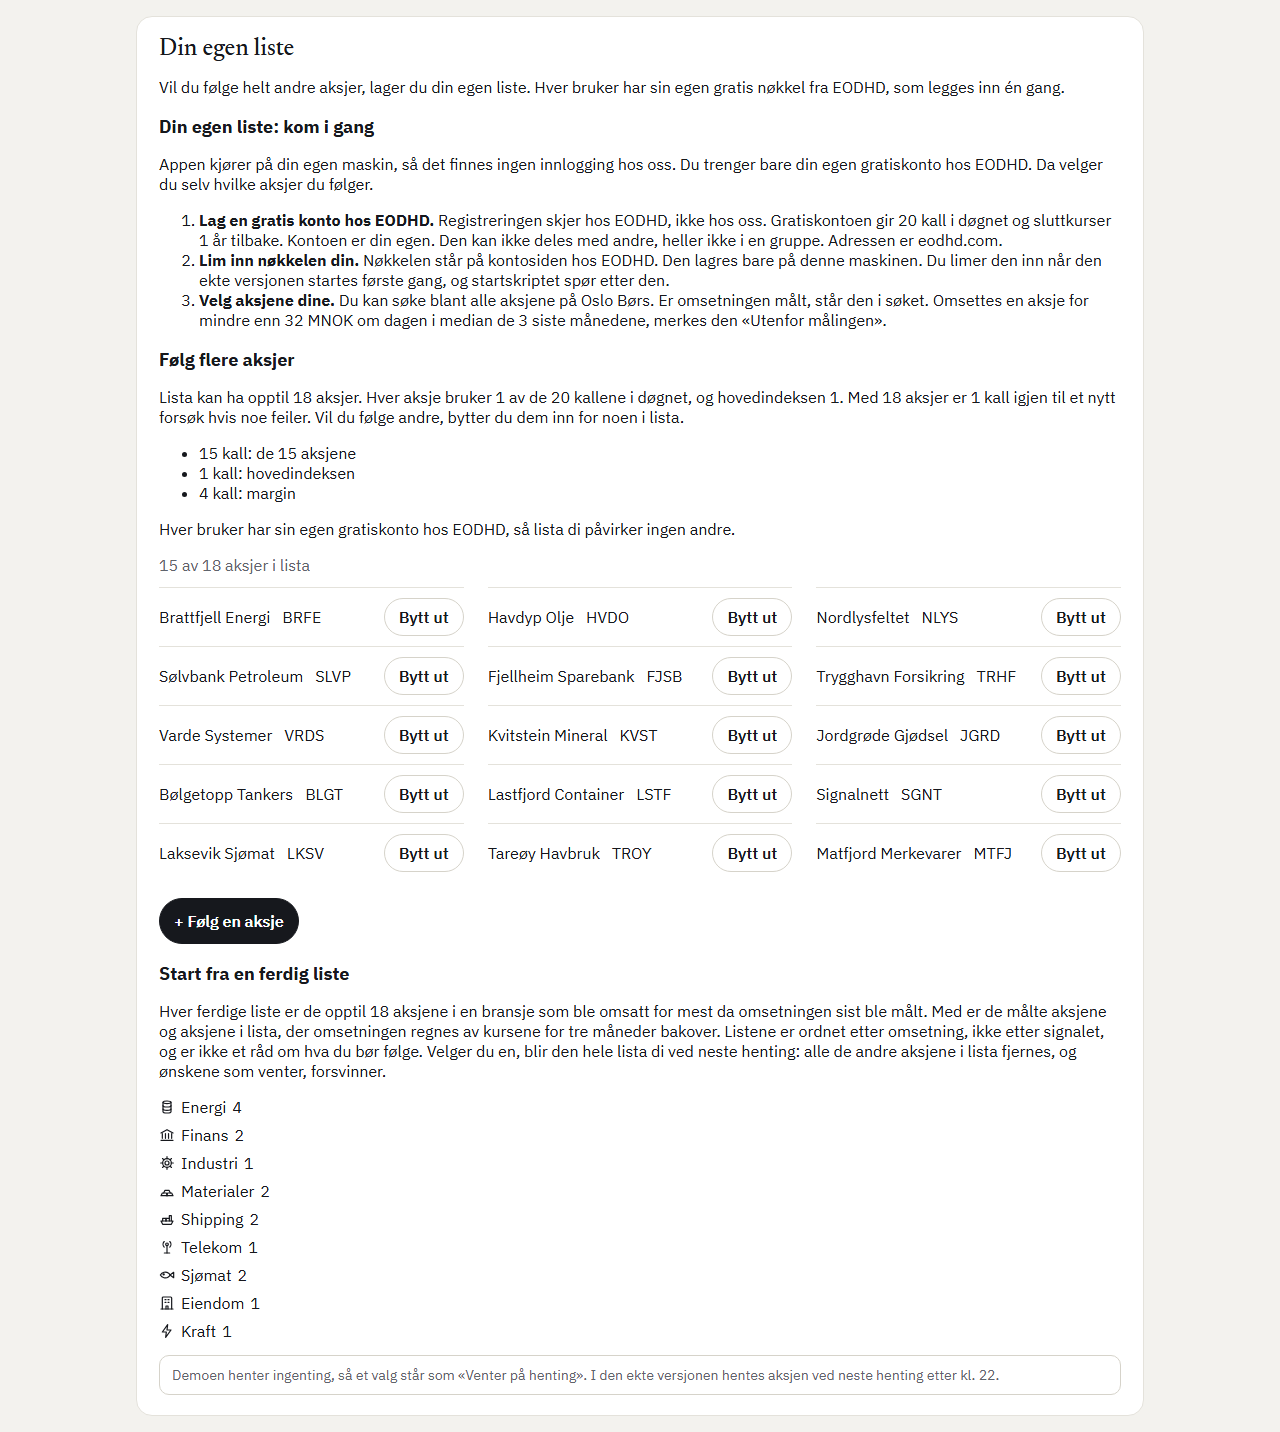
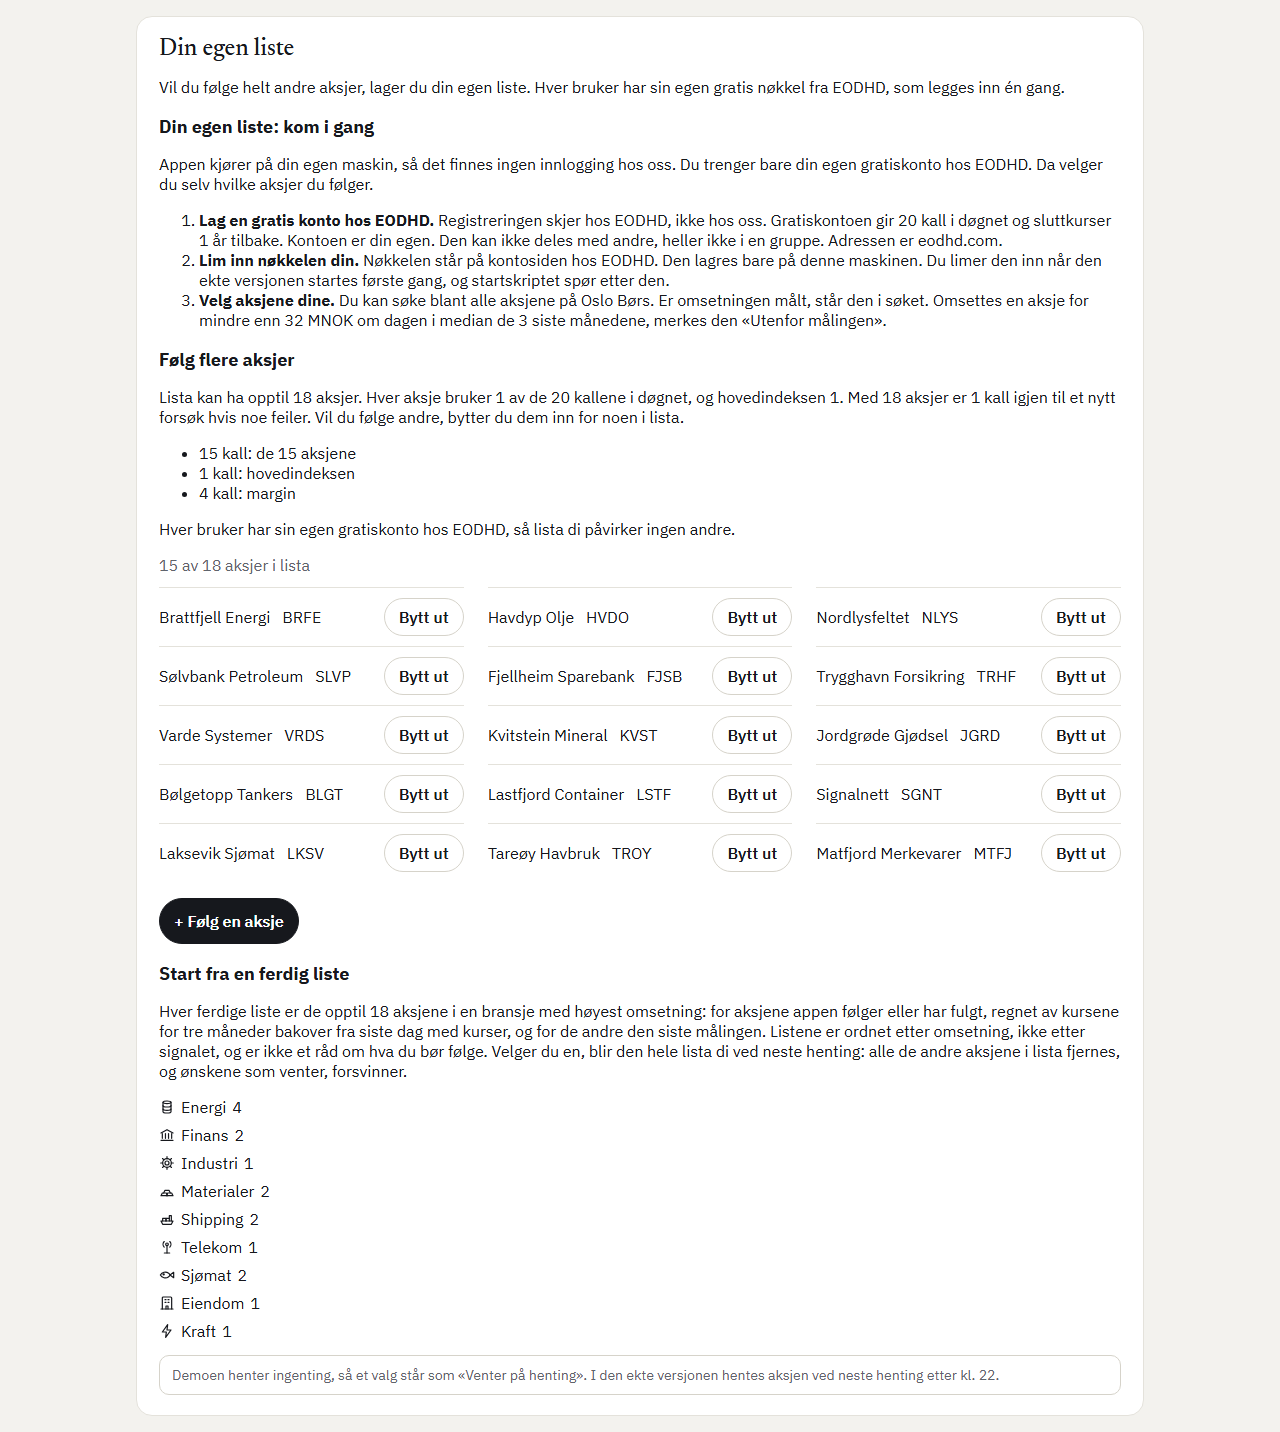
Story 8.11b: rettingene etter gjennomgangen
ECH1: medianen regnes for alle aksjene appen følger eller har fulgt, så en
aksje som er tatt ut, ikke faller ut av bransjelistene, og en målt aksje
uten bransje i BRANSJE får bransjen i aksje. BH1 og VG4: hjelpen og teksten
under «Start fra en ferdig liste» sier hvor medianen kommer fra, og at
bransjen for en egen aksje er brukerens valg. BH3, BH5 og BH6 rettet med
tester. ECH2 (spørsmål 9) og BH2 (spørsmål 10) står åpne til gruppen har
svart (regel 25). Fire mutanter for rettingene, alle fanget. Hele settet
alene 02:30:26–02:45:51: 4769 bestått, 24 hoppet over og 0 feilet.

Changed region(s): [[0.125, 0.7067, 0.875, 0.7682]]

diff --git a/src/templates/_egne.html b/src/templates/_egne.html
@@ -70,7 +70,7 @@
   {#- Story 8.11 (FR-108): de ferdige listene, én per bransje. #}
   {% if egne.ferdige %}
   <h3 id="ferdige-lister">Start fra en ferdig liste</h3>
-  <p>Hver ferdige liste er de opptil {{ egne.tak }} aksjene i en bransje som ble omsatt for mest da omsetningen sist ble målt. Med er de målte aksjene og aksjene i lista, der omsetningen regnes av kursene for tre måneder bakover. Listene er ordnet etter omsetning, ikke etter signalet, og er ikke et råd om hva du bør følge. Velger du en, blir den hele lista di ved neste henting: alle de andre aksjene i lista fjernes, og ønskene som venter, forsvinner.</p>
+  <p>Hver ferdige liste er de opptil {{ egne.tak }} aksjene i en bransje med høyest omsetning: for aksjene appen følger eller har fulgt, regnet av kursene for tre måneder bakover fra siste dag med kurser, og for de andre den siste målingen. Listene er ordnet etter omsetning, ikke etter signalet, og er ikke et råd om hva du bør følge. Velger du en, blir den hele lista di ved neste henting: alle de andre aksjene i lista fjernes, og ønskene som venter, forsvinner.</p>
   {% for bransje, aksjene in egne.ferdige.items() %}
     <details class="ferdig-liste">
       <summary>{{ bransjesymbol(bransje) }}{{ bransje }} <span class="antall">{{ aksjene|length }}</span></summary>

diff --git a/src/ferdige_lister.py b/src/ferdige_lister.py
@@ -123,24 +123,29 @@ class Ferdigaksje:
     median: float
 
 
-def _aksjene_i_lista(tilkobling: sqlite3.Connection) -> list[tuple[str, str, float, str]]:
-    """Story 8.11b (svaret 08.11 kl. 22:06): aksjene i lista, de 15 og de
-    egne, maales ikke i 2.13. Medianen regnes her, naar siden vises, av
-    kursene i basen med samme vindu og utregning som 2.13 (omsetningsregning),
-    til den siste dagen med kurser i basen. Bransjen er den i aksje, og bare
-    aksjer som staar i boersliste er med. [(symbol, navn, median, bransje)]."""
+def _aksjene_i_lista(tilkobling: sqlite3.Connection) -> tuple[set[str], list[tuple[str, str, float, str]]]:
+    """Story 8.11b (svaret 08.11 kl. 22:06): aksjene appen foelger eller har
+    fulgt, de 15 og de egne, maales ikke i 2.13. Medianen regnes her, naar
+    siden vises, av kursene i basen med samme vindu og utregning som 2.13
+    (omsetningsregning), til den siste dagen med kurser i basen. Gjennomgangen
+    (ECH1): ogsaa en aksje som er tatt ut av lista, saa den ikke faller ut av
+    bransjelistene foer 2.13 har maalt den. Bransjen er den i aksje, og bare
+    aksjer som staar i boersliste er med. Gir symbolene som er regnet her, og
+    [(symbol, navn, median, bransje)] for dem som fikk en median."""
     siste = tilkobling.execute("SELECT max(dato) FROM kurs").fetchone()[0]
-    if siste is None:
-        return []
-    fra, til = vindu(date.fromisoformat(siste))
+    try:
+        fra, til = vindu(date.fromisoformat(siste))
+    except (TypeError, ValueError):
+        # Ingen kurser, eller en dato som ikke kan leses (BH5): ingen lister herfra.
+        return set(), []
     dag = til.isoformat()
     lista = tilkobling.execute(
-        "SELECT a.symbol, b.navn, a.sektor FROM aksje a JOIN boersliste b ON b.kode = a.symbol "
-        "WHERE (a.inn IS NULL OR a.inn <= ?) AND (a.ut IS NULL OR a.ut > ?) AND a.sektor IS NOT NULL",
+        "SELECT a.symbol, b.navn, a.sektor, (a.inn IS NULL OR a.inn <= ?) AND (a.ut IS NULL OR a.ut > ?) "
+        "FROM aksje a JOIN boersliste b ON b.kode = a.symbol",
         (dag, dag),
     ).fetchall()
     ut = []
-    for symbol, navn, sektor in lista:
+    for symbol, navn, sektor, _ in lista:
         rader = [
             {"date": dato, "close": slutt, "volume": volum}
             for dato, slutt, volum in tilkobling.execute(
@@ -151,7 +156,9 @@ def _aksjene_i_lista(tilkobling: sqlite3.Connection) -> list[tuple[str, str, flo
         median = regn_ut(symbol, rader, fra, til).median
         if median is not None:
             ut.append((symbol, navn, median, sektor))
-    return ut
+    # En aksje i lista bruker aldri en eldre maaling (BH3); en som er tatt ut
+    # og ikke har kurser i vinduet, kan ha en nyere maaling fra 2.13.
+    return {symbol for symbol, _, _, i_lista in lista if i_lista} | {symbol for symbol, *_ in ut}, ut
 
 
 def lister(tilkobling: sqlite3.Connection | None) -> dict[str, list[Ferdigaksje]]:
@@ -167,13 +174,16 @@ def lister(tilkobling: sqlite3.Connection | None) -> dict[str, list[Ferdigaksje]
             "WHERE o.maalt = (SELECT max(maalt) FROM omsetning WHERE symbol = o.symbol) "
             "AND o.median_omsetning IS NOT NULL"
         ).fetchall()
-        i_lista = _aksjene_i_lista(tilkobling)
+        regnet, i_lista = _aksjene_i_lista(tilkobling)
+        sektorer = dict(tilkobling.execute("SELECT symbol, sektor FROM aksje").fetchall())
     except sqlite3.Error:
         return {}
-    # Story 8.11b: for en aksje i lista gjelder medianen regnet av kursene,
-    # ogsaa om den har en eldre maaling i omsetning (spoersmaal 4).
-    regnet = {symbol for symbol, *_ in i_lista}
-    rader = [(s, n, float(m), BRANSJE.get(s)) for s, n, m in maalte if s not in regnet]
+    # Story 8.11b: for en aksje appen har kurser for, gjelder medianen regnet
+    # av kursene, ogsaa om den har en eldre maaling i omsetning (spoersmaal 4).
+    # Gjennomgangen (BH3, VG1): ogsaa naar den ikke fikk en median i vinduet.
+    # En maalt aksje appen har fulgt, men som ikke staar i BRANSJE (de 15),
+    # faar bransjen i aksje (gjennomgangen, ECH1, sektorer over).
+    rader = [(s, n, float(m), BRANSJE.get(s) or sektorer.get(s)) for s, n, m in maalte if s not in regnet]
     rader += [(s, n, float(m), b) for s, n, m, b in i_lista]
     rader.sort(key=lambda r: (-r[2], r[0]))
     etter_bransje: dict[str, list[Ferdigaksje]] = {}

diff --git a/tests/test_docker.py b/tests/test_docker.py
@@ -1274,7 +1274,9 @@ HOEYDE_PAA_BILDET = 1864
 # paa nytt; bare oversikten ved 390 px er ny (4240 px), de andre er byte for byte de samme.
 # Story 8.11b: omsetningsregning.py bak bildene, og «Din egen liste» med de ni ferdige listene i
 # demoen (1432 px). Alle bildene ble tatt paa nytt; de andre er byte for byte de samme.
[1 lines of base64/hex data omitted]
+# Gjennomgangen av 8.11b: teksten under «Start fra en ferdig liste» er rettet (BH1, VG4), saa «Din
+# egen liste» er tatt paa nytt (fortsatt 1432 px); de andre er byte for byte de samme.
[1 lines of base64/hex data omitted]
 SLIK_TAS_BILDET = (
     "Oversikten er endret, så skjermbildet viser noe annet enn demoen. Ta "
     f"{SKJERMBILDET} på nytt etter «Bildet» i spesifikasjonen 3.3b: demobasen i en "
@@ -1679,7 +1681,9 @@ HOEYDE_PAA_AKSJESIDEN = 2258
 # paa nytt; bare oversikten ved 390 px er ny (4240 px), de andre er byte for byte de samme.
 # Story 8.11b: omsetningsregning.py bak bildene, og «Din egen liste» med de ni ferdige listene i
 # demoen (1432 px). Alle bildene ble tatt paa nytt; de andre er byte for byte de samme.
[1 lines of base64/hex data omitted]
+# Gjennomgangen av 8.11b: teksten under «Start fra en ferdig liste» er rettet (BH1, VG4), saa «Din
+# egen liste» er tatt paa nytt (fortsatt 1432 px); de andre er byte for byte de samme.
[1 lines of base64/hex data omitted]
 SLIK_TAS_AKSJESIDEN = (
     "Aksjesiden er endret, så bildet av den viser noe annet enn demoen. Ta "
     f"{AKSJESIDEBILDET} på nytt med fremgangsmåten i spesifikasjonen 3.3b, mot /aksje/BRFE: "
@@ -1818,14 +1822,16 @@ DE_NYE_BILDENE = {
 # paa nytt; bare oversikten ved 390 px er ny (4240 px), de andre er byte for byte de samme.
 # Story 8.11b: omsetningsregning.py bak bildene, og «Din egen liste» med de ni ferdige listene i
 # demoen (1432 px). Alle bildene ble tatt paa nytt; de andre er byte for byte de samme.
+# Gjennomgangen av 8.11b: teksten under «Start fra en ferdig liste» er rettet (BH1, VG4), saa «Din
+# egen liste» er tatt paa nytt (fortsatt 1432 px); de andre er byte for byte de samme.
 AVTRYKK_BAK_DE_NYE_BILDENE = {
[14 lines of base64/hex data omitted]
 }
 SLIK_TAS_DE_NYE_BILDENE = (
     "Siden bak {bildet} er endret, så bildet viser noe annet enn demoen. Ta det på nytt som "

diff --git a/tests/test_ferdige_lister_8_11b.py b/tests/test_ferdige_lister_8_11b.py
@@ -88,14 +88,49 @@ class TestDeFemten:
         alle = {a.symbol for liste in _lister(base).values() for a in liste}
         assert "KOG" not in alle and {"EQNR", "DNB"} <= alle
 
-    def test_en_aksje_som_er_tatt_ut_er_ikke_med(self, base):
-        """Del A: ville feilet hvis en aksje med ut før siste kursdag var med
-        som om den var i lista."""
+    def test_en_aksje_som_er_tatt_ut_er_med_saa_lenge_den_har_kurser(self, base):
+        """Gjennomgangen (ECH1): ville feilet hvis en aksje som er tatt ut av
+        lista, falt ut av bransjelistene mens den har kurser i vinduet, før
+        2.13 har målt den."""
         t = sqlite3.connect(base)
         with t:
             t.execute("UPDATE aksje SET ut = '2026-10-01' WHERE symbol = 'DNB'")
         t.close()
+        assert [(a.symbol, a.median) for a in _lister(base)["Finans"]] == [("DNB", _median(DNB_RADER))]
+
+    def test_en_aksje_tatt_ut_uten_kurser_i_vinduet_bruker_maalingen(self, base):
+        """Gjennomgangen (ECH1): ville feilet hvis en aksje som er tatt ut og
+        ikke har kurser i vinduet, mistet en måling fra 2.13."""
+        t = sqlite3.connect(base)
+        with t:
+            t.execute("UPDATE aksje SET ut = '2026-06-01' WHERE symbol = 'DNB'")
+            t.execute("DELETE FROM kurs WHERE symbol = 'DNB'")
+        t.close()
+        maal(base, [("DNB", 7e6)])
+        assert [(a.symbol, a.median) for a in _lister(base)["Finans"]] == [("DNB", 7e6)]
+
+    def test_en_aksje_i_lista_uten_kurser_i_vinduet_bruker_ikke_en_eldre_maaling(self, base):
+        """Gjennomgangen (BH3, VG1): ville feilet hvis en aksje i lista uten
+        kurser i vinduet ble vist med en eldre måling (spørsmål 4)."""
+        t = sqlite3.connect(base)
+        with t:
+            t.execute("DELETE FROM kurs WHERE symbol = 'DNB'")
+        t.close()
+        maal(base, [("DNB", 7e6)])
         assert "Finans" not in _lister(base)
+
+    def test_vinduet_tar_med_den_foerste_dagen(self, base):
+        """Gjennomgangen (BH6): ville feilet hvis dagen vinduet begynner, var
+        utenfor, eller dagen før var innenfor."""
+        _kurser(base, "DNB", [("2026-07-22", 100.0, 100), ("2026-07-21", 1e9, 1_000_000)])
+        assert _lister(base)["Finans"][0].median == _median([*DNB_RADER, ("2026-07-22", 100.0, 100)])
+
+    def test_en_dato_som_ikke_kan_leses_gir_ingen_feil(self, base):
+        """Gjennomgangen (BH5): ville feilet hvis en dato i kurs som ikke kan
+        leses, ga en feil på siden i stedet for ingen lister herfra."""
+        _kurser(base, "EQNR", [("ikke en dato", 1.0, 1)])
+        maal(base, [("NHY", 9e6)])
+        assert _lister(base) == {}
 
     def test_ingen_kurser_gir_ingen_lister_fra_lista(self, tmp_path, monkeypatch):
         """Ville feilet hvis en base uten kurser ga en feil eller en liste."""

diff --git a/_bmad-output/implementation-artifacts/spec-8-11b-de-15-i-bransjelistene.md b/_bmad-output/implementation-artifacts/spec-8-11b-de-15-i-bransjelistene.md
@@ -66,3 +66,26 @@ Bygget på grenen `8-11b-de-15-i-bransjelistene`, i worktreen `G74-lund-osen-8-1
 
 Én per del på arbeidskopien, med kopi før og sha256 lik etter: A (ingen aksjer fra lista) fanget av `test_en_aksje_i_lista_er_med_med_medianen_av_kursene`, A2 (`ut` ignoreres) av `test_en_aksje_som_er_tatt_ut_er_ikke_med`, C (en eldre måling går foran) av `test_kursene_gaar_foran_en_eldre_maaling`, D (uten `boersliste`) av `test_bare_aksjer_i_boerslista`, og E (`ferdige_lister` importerer `omsetning`) av `TestSammeUtregning`. B (uten `BETWEEN` i SQL-en) overlevde, fordi `regn_ut` selv bare tar med radene i vinduet, så `BETWEEN` bare gjør spørringen mindre. B2 (vinduet fra `date.min`) ble fanget av `test_vinduet_er_tre_maaneder_til_siste_kursdag`.
 
+## Spørsmål etter gjennomgangen
+
+10. **Ulike vinduer (BH2).** De målte medianene er fra vinduet den dagen de ble målt, og medianene regnet av kursene fra vinduet til siste dag med kurser. Begge rangeres sammen. *Forslag:* godta det, fordi målingene i 2.13 er av aksjer som ellers ikke ville vært med, og teksten sier nå hvor hver median kommer fra. Funnet er middels og står åpent til gruppen har svart (regel 25).
+
+*Lagt til 2026-11-09 (gjennomgangen, ECH1):* spørsmål 1 er utvidet i det som er bygget: medianen regnes for alle aksjene appen følger eller har fulgt som har kurser i vinduet, ikke bare dem i lista, så en aksje som er tatt ut, ikke faller ut av bransjelistene før 2.13 har målt den.
+
+## Gjennomgangen 09.11 (Blind Hunter, Edge Case Hunter og Verification Gap)
+
+To gjennomganger av byggingen før `a08a7f6a`, i parallell med hele settet: Blind Hunter med bare diffen (7 funn), og Edge Case Hunter og Verification Gap i samme agent med repoet (5 og 4 funn). Ingen høye.
+
+**Middels**
+- *ECH1, rettet.* En aksje som ble tatt ut av lista, falt ut av alle bransjelister, fordi 2.13 hopper over aksjene i lista. Nå regnes medianen for alle aksjene i `aksje` som står i `boersliste` og har kurser i vinduet, og en målt aksje uten bransje i `BRANSJE` får bransjen i `aksje` (`test_en_aksje_som_er_tatt_ut_er_med_saa_lenge_den_har_kurser`, `test_en_aksje_tatt_ut_uten_kurser_i_vinduet_bruker_maalingen`).
+- *BH1 og VG4, rettet.* Hjelpen sa at gruppen har sjekket bransjen for hver aksje, og at listene er de som ble omsatt for mest da omsetningen sist ble målt. Nå sier hjelpen og teksten under «Start fra en ferdig liste» hvor medianen kommer fra, og at bransjen for en aksje brukeren følger selv, er den brukeren valgte.
+- *ECH2, åpent* med spørsmål 9 (regel 25): merket «Utenfor målingen» leser `omsetning`, så en egen aksje kan stå som ikke målt i tabellen og med en median i den ferdige lista.
+- *BH2, åpent* som spørsmål 10 (regel 25).
+
+**Lav**
+- *Rettet:* BH3 og VG1 (en aksje i lista uten kurser i vinduet bruker ikke en eldre måling), BH5 (en dato i `kurs` som ikke kan leses, gir ingen lister herfra i stedet for en feil), BH6 (en test for dagen vinduet begynner og dagen før), ECH3 og VG2 (regelen for `inn` og `ut` bestemmer nå bare hvilke aksjer som aldri bruker en eldre måling).
+- *Ført:* BH4 og ECH4 (`max(dato)` over hele `kurs` og én spørring per aksje, for hver side med basen), ECH5 (ingen minste antall dager i vinduet, som i 2.13), VG3 (ingen test for merket «Utenfor målingen» for de 15, venter på spørsmål 9), B-mutanten.
+- *Ikke reelt:* BH7 (`kode` er primærnøkkel i `boersliste`).
+
+**Mutantene for rettingene:** F1 (bare aksjene i lista regnes), F2 (bare de med median går foran målingen), F3 (ingen bransje fra `aksje` for de målte) og F4 (`ValueError` fanges ikke), hver fanget av sin test, med fila lik etterpå.
+

diff --git a/docs/hjelp.md b/docs/hjelp.md
@@ -209,7 +209,7 @@ Under tabellen på oversikten står «Dine egne aksjer», med hvor mange egne du
 
 ### Hva er de ferdige listene og filteret?
 
-I Min liste, under «Din egen liste», står «Start fra en ferdig liste»: én liste per bransje, med de opptil 18 aksjene i bransjen som ble omsatt for mest da omsetningen sist ble målt. Med er de målte aksjene og aksjene i lista. For aksjene i lista regnes omsetningen av kursene for tre måneder bakover når siden vises. En bransje uten slike aksjer har ingen liste. Bransjen for hver aksje er sjekket av gruppen. Listene er ordnet etter omsetning, ikke etter signalet, og er ikke et råd om hva du bør følge. Over knappen står hvor mange aksjer som fjernes. «Bruk denne lista» gjør den ferdige lista til hele lista di ved neste henting etter kl. 22: aksjene som ikke er med, fjernes, også de 15 vi valgte, de nye følges, og ønskene som venter, forsvinner. Over tabellen på oversikten og i Min liste står «Alle», «3 av 3 positiv» og «3 av 3 negativ». Filteret viser bare aksjene som fikk 3 av 3 i den retningen, i samme rekkefølge som ellers, og bare blant aksjene siden viser. Under knappene står at det sier hva sjekkene ga, og ikke er et råd om å kjøpe eller selge. Sorterer du eller velger en periode, vises alle igjen. I demoen er det ferdige lister for ni bransjer, med oppdiktede selskaper.
+I Min liste, under «Din egen liste», står «Start fra en ferdig liste»: én liste per bransje, med de opptil 18 aksjene i bransjen med høyest omsetning. For aksjene appen følger eller har fulgt, regnes omsetningen av kursene i appen for tre måneder bakover fra siste dag med kurser, når siden vises. For de andre er det den siste målingen av omsetning. En bransje uten slike aksjer har ingen liste. Bransjen er den gruppen har sjekket, og for en aksje du følger selv, den du valgte. Listene er ordnet etter omsetning, ikke etter signalet, og er ikke et råd om hva du bør følge. Over knappen står hvor mange aksjer som fjernes. «Bruk denne lista» gjør den ferdige lista til hele lista di ved neste henting etter kl. 22: aksjene som ikke er med, fjernes, også de 15 vi valgte, de nye følges, og ønskene som venter, forsvinner. Over tabellen på oversikten og i Min liste står «Alle», «3 av 3 positiv» og «3 av 3 negativ». Filteret viser bare aksjene som fikk 3 av 3 i den retningen, i samme rekkefølge som ellers, og bare blant aksjene siden viser. Under knappene står at det sier hva sjekkene ga, og ikke er et råd om å kjøpe eller selge. Sorterer du eller velger en periode, vises alle igjen. I demoen er det ferdige lister for ni bransjer, med oppdiktede selskaper.
 
 ### Hva betyr «ikke i lista»?
 
